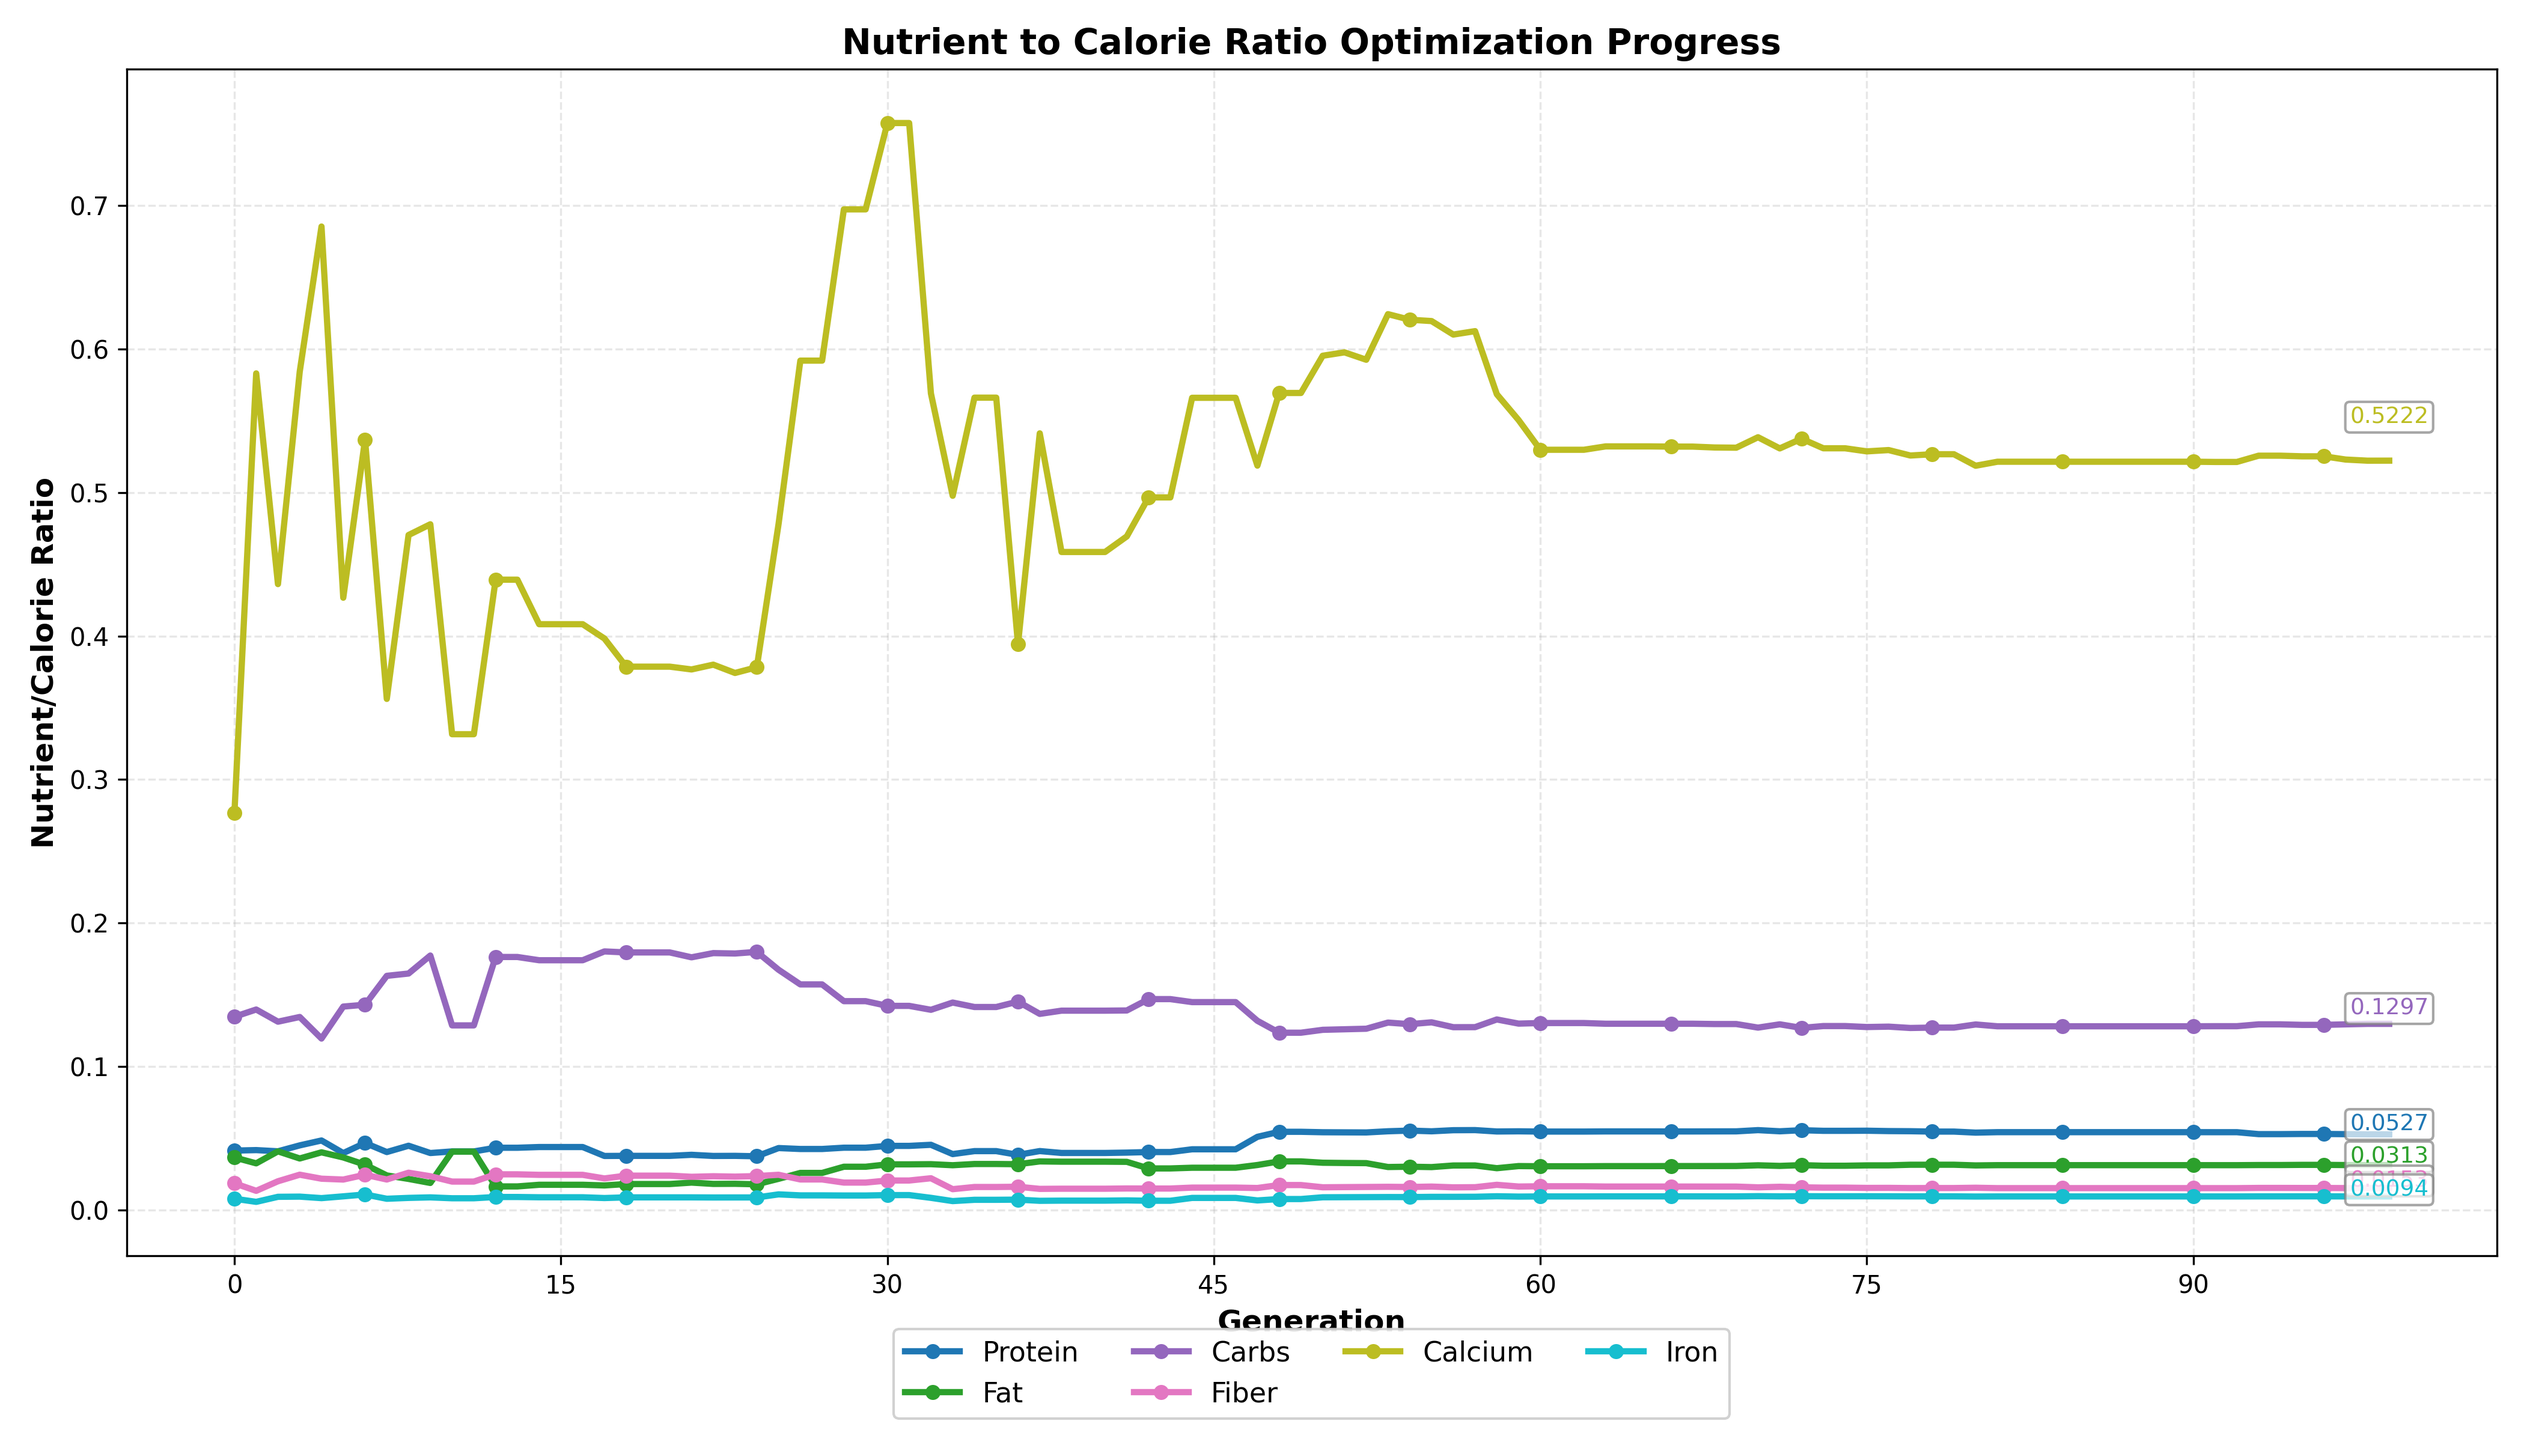
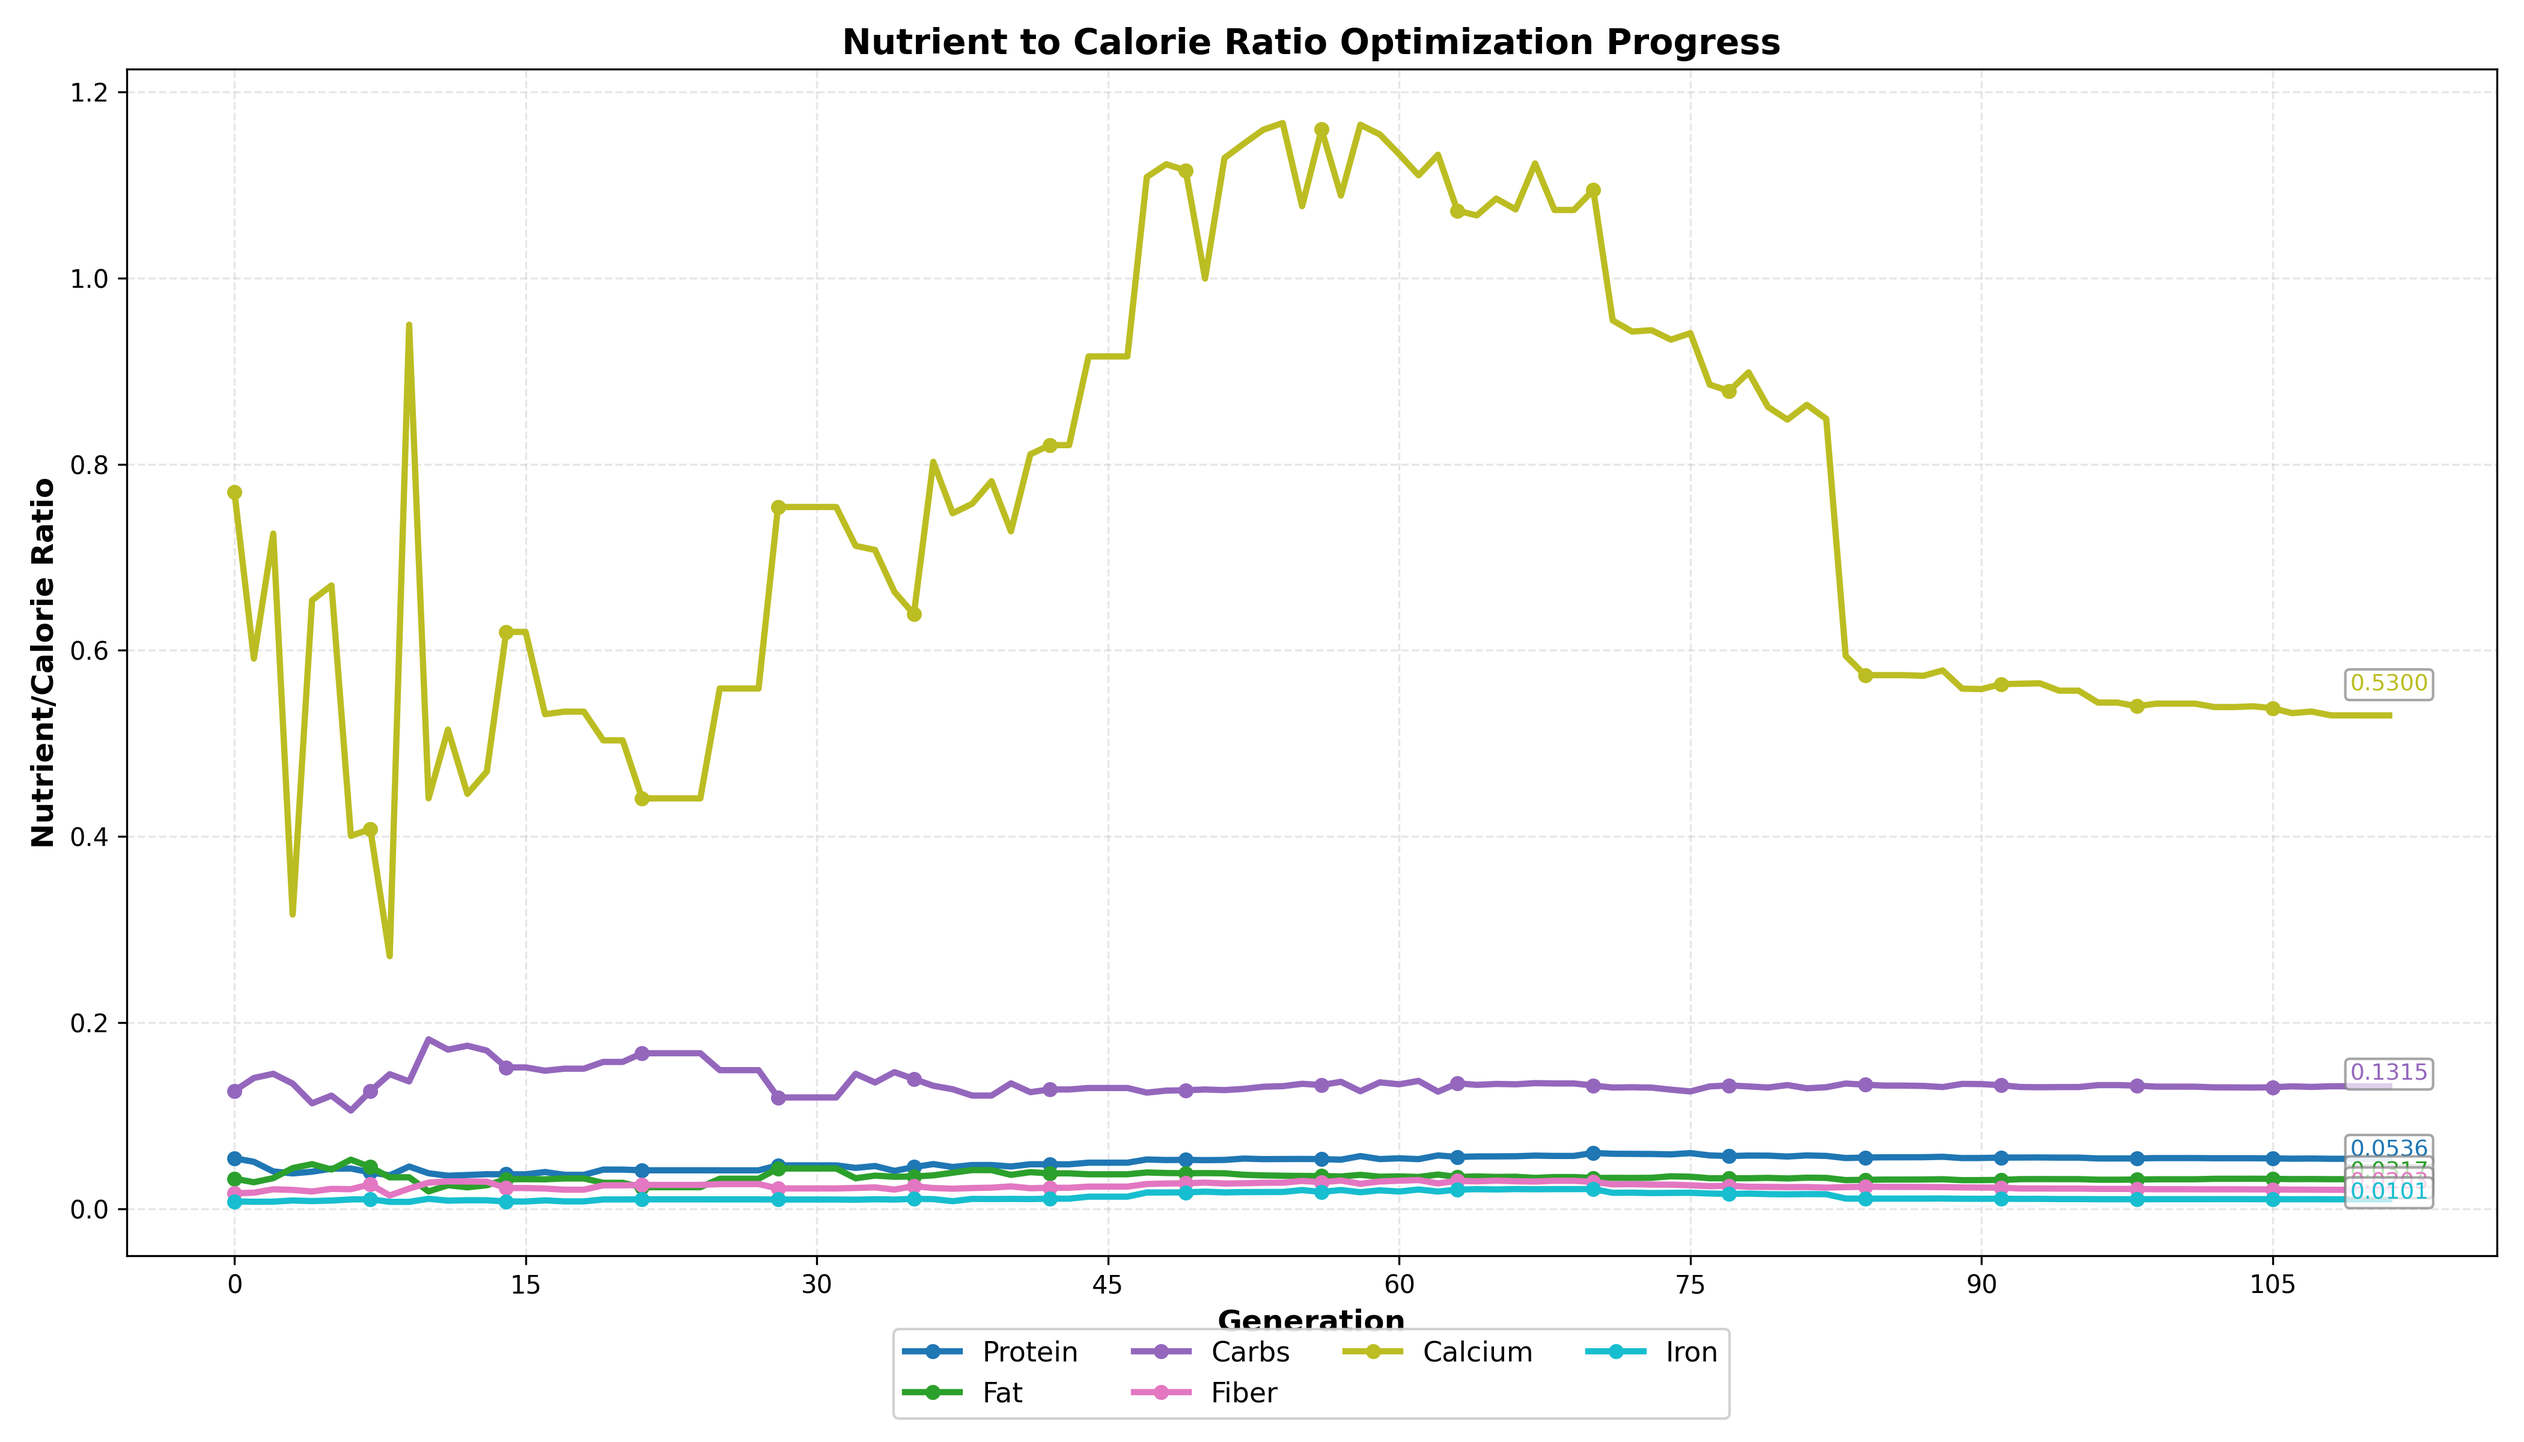
change fitness

diff --git a/diet_ga/fitness2.py b/diet_ga/fitness2.py
@@ -8,14 +8,7 @@ from .models import Individual, FoodItem
 init(autoreset=True)
 
 class FitnessEvaluator:
-    """
-    Implements a piecewise nutrient‐direction fitness with:
-      - Base linear penalty (real - min_val) for any val ≠ min_val
-      - Directional band‐reward for:
-          * 'max': reward when min_val ≤ val ≤ opt_val
-          * 'min': reward when opt_val ≤ val ≤ min_val
-      - Extra linear penalty beyond the band edges
-    """
+   
     def __init__(
         self,
         foods: List[FoodItem],
@@ -66,19 +59,23 @@ class FitnessEvaluator:
             Score for this nutrient (higher is better)
         """
         # 1) Base penalty for any deviation from min_val
-        base_penalty = -5*weight * abs(val - min_val) / min_val
+        #base_penalty = -5*weight * abs(val - min_val) / min_val
 
         # 2) Directional band reward (or extra penalty if outside band)
         band_reward = 0.0
         if direction == 'max':
-            if min_val <= val <= opt_val:
-                band_reward = 4.5*weight * (val - min_val) / min_val
+            if min_val <= val:
+                band_reward = -4.5*weight * (val - min_val) / min_val
+            else:
+                band_reward = 1000*weight * (val - min_val) / min_val
            
         elif direction == 'min':
-            if opt_val <= val <= min_val:
-                band_reward = 4.5*weight * (min_val - val) / min_val
+            if val <= min_val:
+                band_reward = -4.5*weight * (min_val - val) / min_val
+            else:
+                band_reward = 1000*weight * (min_val - val) / min_val
 
-        return base_penalty + band_reward
+        return band_reward
 
     def __call__(self, ind: Individual) -> float:
         """
@@ -102,7 +99,7 @@ class FitnessEvaluator:
         # 2) heavy budget penalty
         score = 0.0
         if cost > self.cost_cap:
-            score -= 500*(cost - self.cost_cap)
+            score -= 5000*(cost - self.cost_cap)
 
         # 3) Nutrient‐by‐nutrient scoring
         for nut, min_val in self.min_req.items():

diff --git a/main.py b/main.py
@@ -302,7 +302,7 @@ Algorithm Information:
     ga_group = parser.add_argument_group('Genetic Algorithm Options')
     ga_group.add_argument('--pop', type=int, default=2000,
                          help='Population size for GA')
-    ga_group.add_argument('--gens', type=int, default=99,
+    ga_group.add_argument('--gens', type=int, default=111,
                          help='Number of generations for GA')
     ga_group.add_argument('--mut', type=float, default=0.25,
                          help='Initial mutation rate for GA')
